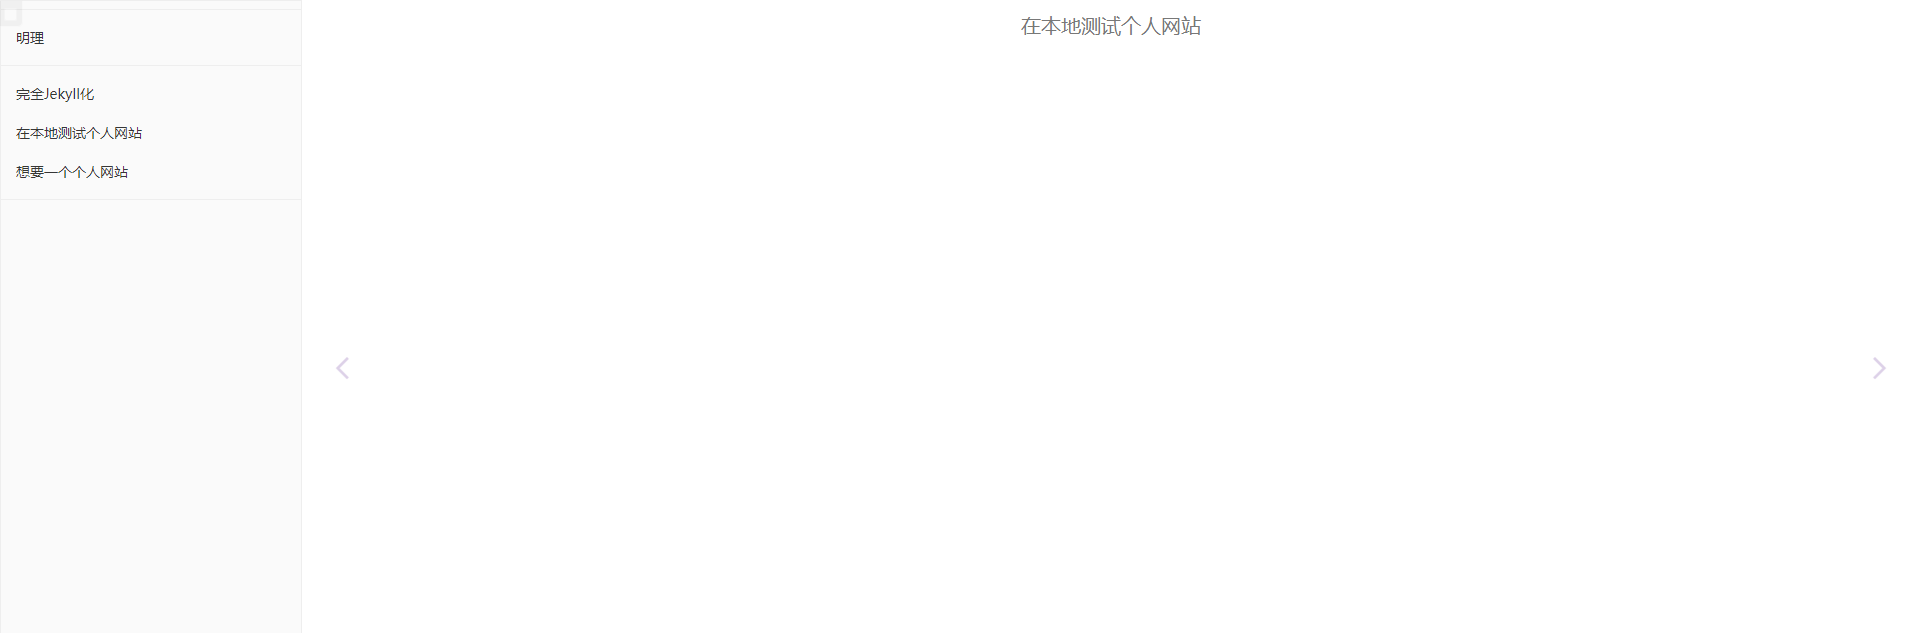
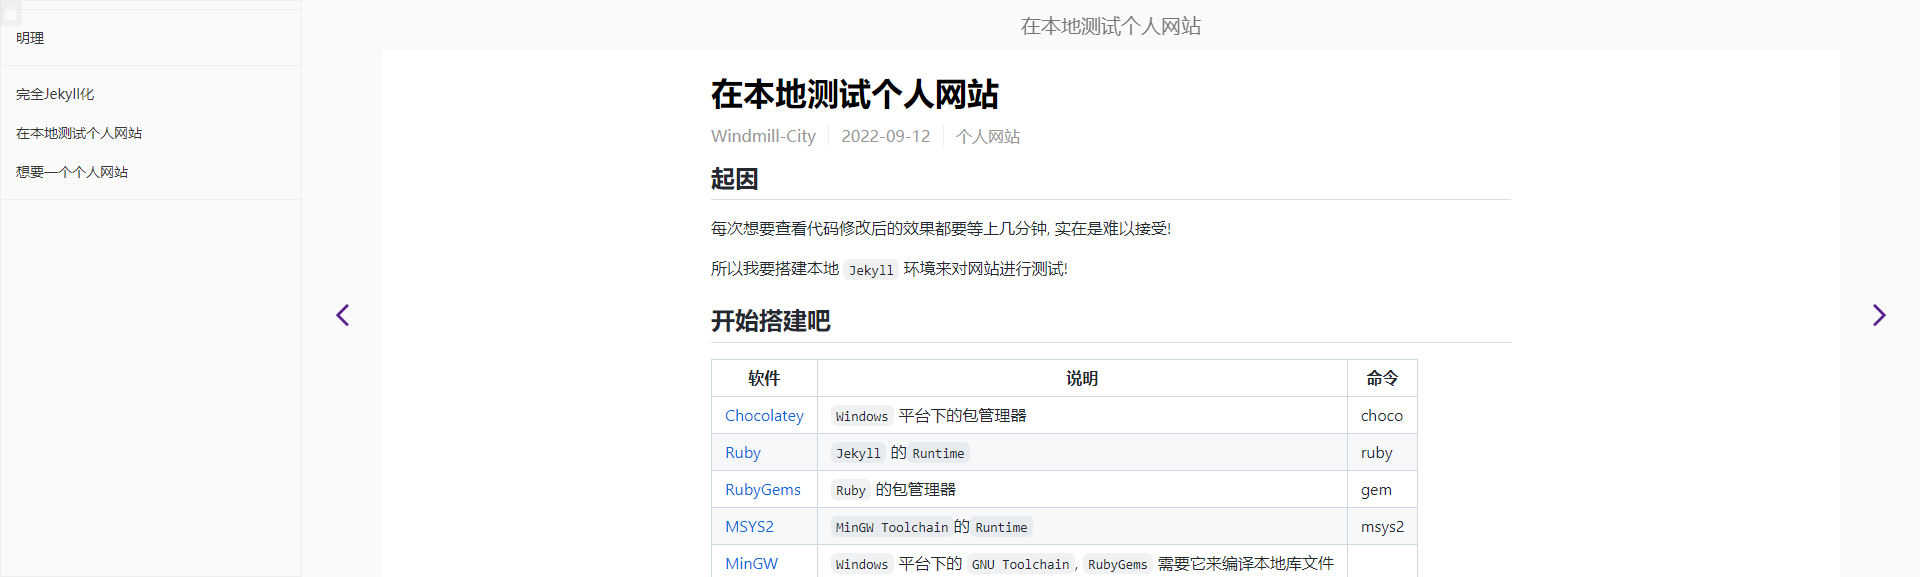
fix flex grow

diff --git a/_sass/nav-main.scss b/_sass/nav-main.scss
@@ -12,7 +12,7 @@
         top: 0;
 
         a {
-            flex: 100%;
+            flex: 1;
             text-align: center;
             font-size: 20px;
             line-height: $nav-top-height;
@@ -30,17 +30,17 @@
     .nav-page {
         display: flex;
         justify-content: space-between;
+        align-items: flex-start;
 
         .nav-prev {
             width: 80px;
             max-width: 80px;
-            align-self: flex-start;
             position: sticky;
             top: $nav-top-height;
 
             a {
                 display: flex;
-                flex: 100%;
+                flex: 1;
                 justify-content: center;
                 align-items: center;
                 height: calc(100vh - #{$nav-top-height});

diff --git a/_sass/main.scss b/_sass/main.scss
@@ -13,6 +13,6 @@ body {
     }
 
     .nav-main {
-        flex-grow: 1;
+        flex: 1;
     }
 }

diff --git a/个人网站/_posts/2022-9-13-完全Jekyll化.md b/个人网站/_posts/2022-9-13-完全Jekyll化.md
@@ -555,18 +555,22 @@ git clone git@github.com:sindresorhus/github-markdown-css.git
 
 <body>
     {% include nav-aside.html %}
-    <div class="main">
-        {% include nav-main.html %}
-    </div>
+    {% include nav-main.html %}
 </body>
 
 </html>
 ```
 
-`Page` 的宽度设定为 `800px`, 外层增加了一层 `Wrapper` 作为背景层, 辅助布局和滚动
-
-`nav-main` 包含顶部导航栏, 和左右两侧的前后页面按钮
-
-`main` 为辅助定位层, 使 `nav-main` 叠加在 `page` 的正上方
-
 ![NavMain](/assets/NavMain.png)
+
+Ref: [CSS Flexible Box Layout Module Level 1](https://www.w3.org/TR/css-flexbox-1/)
+
+整体采用 `Flexbox` 进行布局
+
+主要难点是把 `侧栏` \ `顶部导航栏` \ `页面箭头` 给固定住
+
+`Flexbox` 要求 `父元素` 不能够脱离文档流, 否则 `Flexbox` 容器大小会出错
+
+这意味着使用 `position: fix | absolute;` 将元素固定的方法是行不通的
+
+所以应该使用 `position: sticky` 配合 `top | bottom | left |right` 来进行元素的固定
